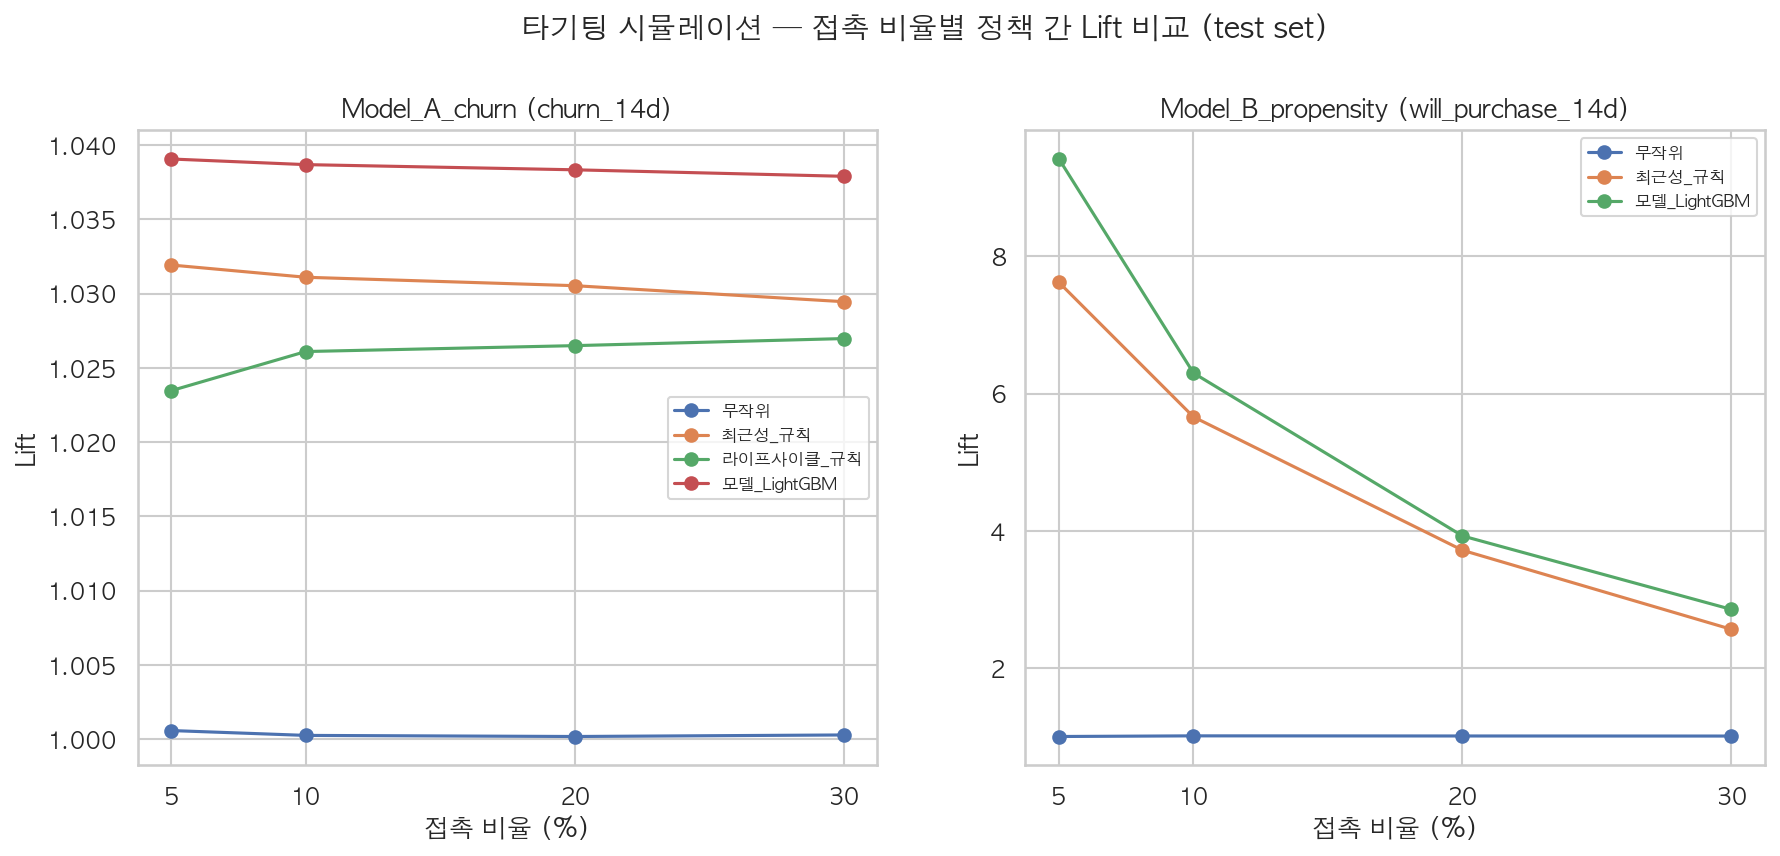
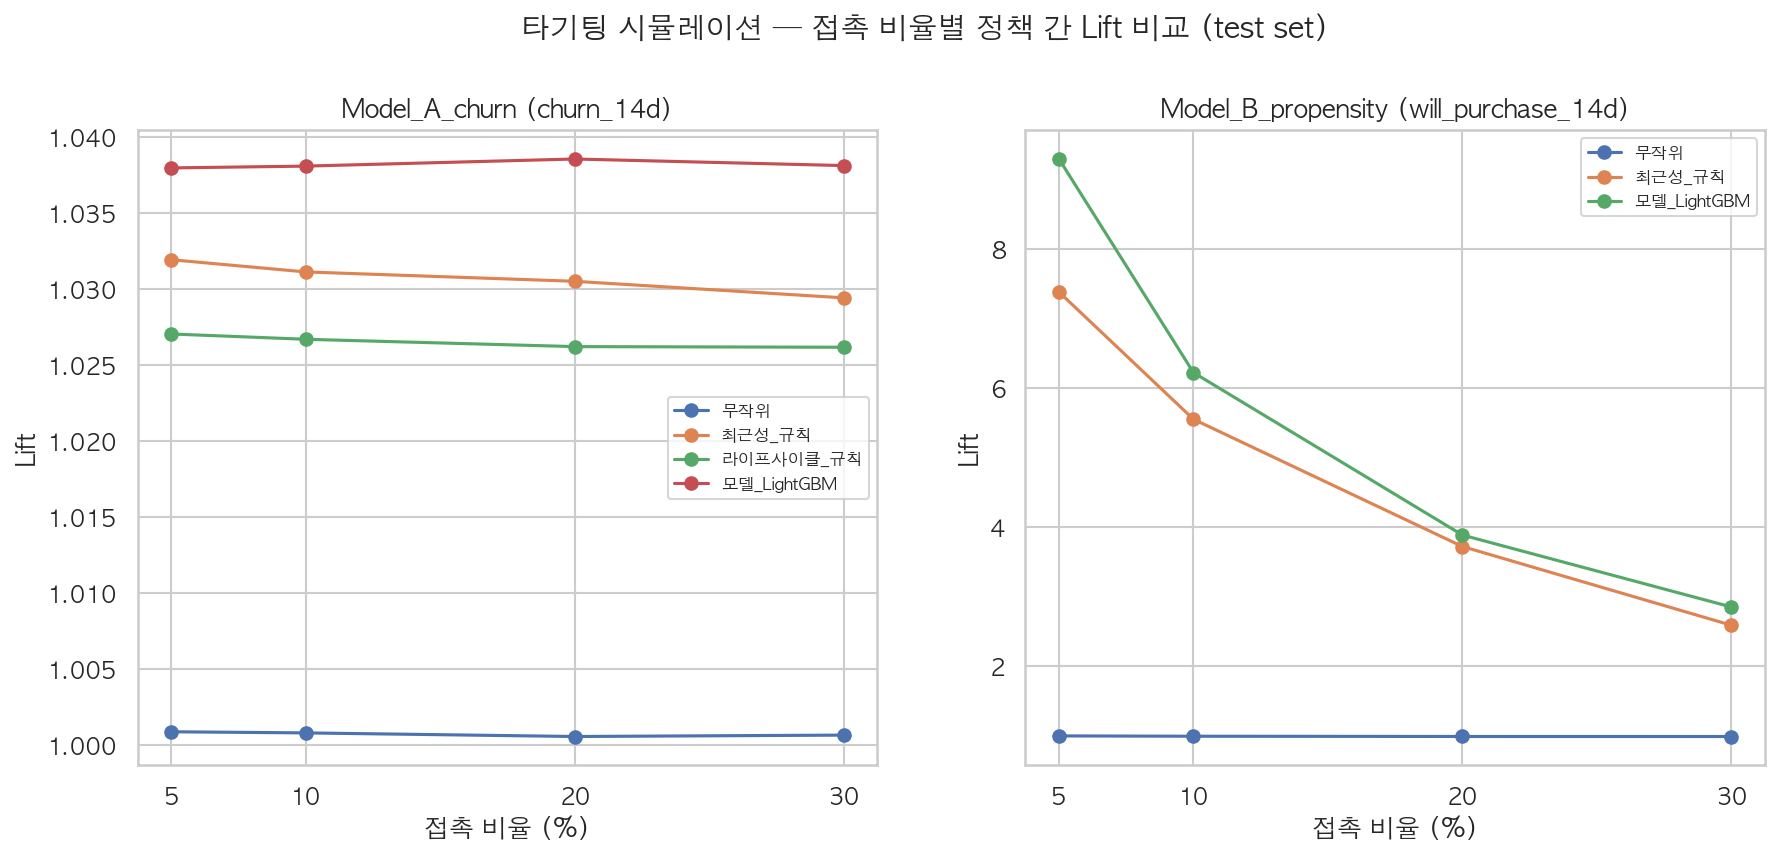
chore(phase7): rebuild targeting simulation for updated Model B population
mart_targeting_simulation과 phase7_targeting_simulation.{csv,md}을
search_first 통일 후의 mart_purchase_propensity로 재빌드했다. Model A는
영향 없음(수치는 이미 avg_category_repurchase_rate 반영분과 일치, 문서만
갱신). Model B 동일 Recall 대비 접촉 절감률: 10% 접촉 기준 20.47%->21.68%,
구간 전체 18.47~45.94% -> 19.59~50.87%로 갱신.

diff --git a/reports/phase7_targeting_simulation.md b/reports/phase7_targeting_simulation.md
@@ -19,44 +19,48 @@
 
 | 접촉 비율 | 정책 | 선정 인원 | 실제 포착 | Precision | Recall | Lift |
 |---:|---|---:|---:|---:|---:|---:|
-| 10% | 무작위 | 142,384 | 134,782 | 94.66% | 10.00% | 1.00 |
-| 10% | 최근성_규칙 | 142,384 | 138,939 | 97.58% | 10.31% | 1.03 |
-| 10% | 라이프사이클_규칙 | 142,384 | 138,265 | 97.11% | 10.26% | 1.03 |
-| 10% | **모델(LightGBM)** | 142,384 | 139,961 | **98.30%** | **10.39%** | 1.04 |
+| 10% | 무작위 | 142,384 | 134,856 | 94.71% | 10.01% | 1.00 |
+| 10% | 최근성_규칙 | 142,384 | 138,942 | 97.58% | 10.31% | 1.03 |
+| 10% | 라이프사이클_규칙 | 142,384 | 138,345 | 97.16% | 10.27% | 1.03 |
+| 10% | **모델(LightGBM)** | 142,384 | 139,880 | **98.24%** | **10.38%** | 1.04 |
 
 **동일 Recall 달성에 필요한 접촉 인원 비교** (모델이 10% 접촉으로 달성한
-Recall 10.39%를 최근성_규칙이 달성하려면?): 규칙은 143,426명이 필요 —
-모델(142,384명) 대비 **0.73% 절감**. 5%/20%/30% 접촉에서도 절감폭은
-0.68%~0.82%로 **일관되게 미미**하다 (churn_28d는 1.28%~1.58%로 약간 더
-크지만 여전히 작음).
+Recall을 최근성_규칙이 달성하려면?): 모델 대비 **0.67% 절감**(10% 접촉
+기준). 5%/20%/30% 접촉에서도 절감폭은 0.58%~0.84%로 **일관되게 미미**하다
+(churn_28d는 1.22%~1.64%로 약간 더 크지만 여전히 작음).
 
 ## Model B(구매성향) — 정책 비교, will_purchase_14d
 
+**2026-08-08 갱신**: 모집단 정의를 search_first 기준으로 통일(검색 1회
+이상 → 검색이 방문보다 먼저)한 뒤 재빌드한 결과 — 근거는
+`docs/methodology.md` 2026-08-08 "`mart_purchase_propensity` 모집단
+조건을 search_first로 통일" 항목 참고.
+
 | 접촉 비율 | 정책 | 선정 인원 | 실제 포착 | Precision | Recall | Lift |
 |---:|---|---:|---:|---:|---:|---:|
-| 10% | 무작위 | 781,993 | 10,399 | 1.33% | 10.09% | 1.01 |
-| 10% | 최근성_규칙 | 781,993 | 58,327 | 7.46% | 56.60% | 5.66 |
-| 10% | **모델(LightGBM)** | 781,993 | 64,921 | **8.30%** | **63.00%** | **6.30** |
+| 10% | 무작위 | 742,094 | 10,198 | 1.37% | 9.96% | 1.00 |
+| 10% | 최근성_규칙 | 742,094 | 56,866 | 7.66% | 55.54% | 5.55 |
+| 10% | **모델(LightGBM)** | 742,094 | 63,739 | **8.59%** | **62.25%** | **6.23** |
 
-**동일 Recall 달성에 필요한 접촉 인원 비교**: 모델이 10% 접촉(781,993명)으로
-달성한 Recall 63.00%를 최근성_규칙이 달성하려면 983,236명을 접촉해야 함 —
-모델 대비 **20.47% 절감**. 다른 접촉 비율에서는 절감폭이 더 크다: 5%
-접촉 시 29.54%, 20% 접촉 시 41.41%, 30% 접촉 시 45.94% 절감
-(will_purchase_28d도 비슷한 패턴: 18.47%~43.38%).
+**동일 Recall 달성에 필요한 접촉 인원 비교**: 모델이 10% 접촉(742,094명)으로
+달성한 Recall 62.25%를 최근성_규칙이 달성하려면 947,559명을 접촉해야 함 —
+모델 대비 **21.68% 절감**. 다른 접촉 비율에서는 절감폭이 더 크다: 5%
+접촉 시 30.66%, 20% 접촉 시 34.25%, 30% 접촉 시 50.87% 절감
+(will_purchase_28d도 비슷한 패턴: 19.59%~44.55%).
 
 ## 종합 비교
 
 | 모델 | 라벨 | 동일 Recall 달성 시 접촉 인원 절감률 (5~30% 접촉 구간) |
 |---|---|---|
-| Model A (구매 비활성) | churn_14d | 0.68% ~ 0.82% |
-| Model A (구매 비활성) | churn_28d | 1.28% ~ 1.58% |
-| Model B (구매성향) | will_purchase_14d | 20.47% ~ 45.94% |
-| Model B (구매성향) | will_purchase_28d | 18.47% ~ 43.38% |
+| Model A (구매 비활성) | churn_14d | 0.58% ~ 0.84% |
+| Model A (구매 비활성) | churn_28d | 1.22% ~ 1.64% |
+| Model B (구매성향) | will_purchase_14d | 21.68% ~ 50.87% |
+| Model B (구매성향) | will_purchase_28d | 19.59% ~ 44.55% |
 
 **핵심 결론 (CLAUDE.md 24번 형식)**:
 
 > 향후 구매 가능성이 높은 상위 10% 고객을 모델로 선정했을 때, 단순
-> 최근성 기준보다 동일한 포착률(Recall)을 20.47% 더 적은 인원으로
+> 최근성 기준보다 동일한 포착률(Recall)을 21.68% 더 적은 인원으로
 > 달성했다. 반면 구매 비활성 위험 고객 선별에서는 모델이 규칙 대비
 > 통계적으로 유의미하게 낫지만(AUC 기준), 실무적 접촉 인원 절감 효과는
 > 1% 내외로 제한적이었다.
@@ -69,7 +73,7 @@ Recall 10.39%를 최근성_규칙이 달성하려면?): 규칙은 143,426명이 
 ## CRM 실무 제안 (가설, 검증되지 않음)
 
 - **구매 유도(전환) 타겟팅에는 모델 기반 접근을 우선 도입**할 가치가
-  뚜렷하다 — 동일 예산으로 최대 46% 더 많은 잠재 구매자에게 도달하거나,
+  뚜렷하다 — 동일 예산으로 최대 51% 더 많은 잠재 구매자에게 도달하거나,
   동일 도달률을 훨씬 적은 접촉으로 달성할 수 있다.
 - **재활성화(비활성 위험) 타겟팅은 단순 최근성 규칙만으로도 이미 충분히
   근접한 성능**을 낸다 — 모델 운영·유지 비용 대비 이득이 크지 않을 수
